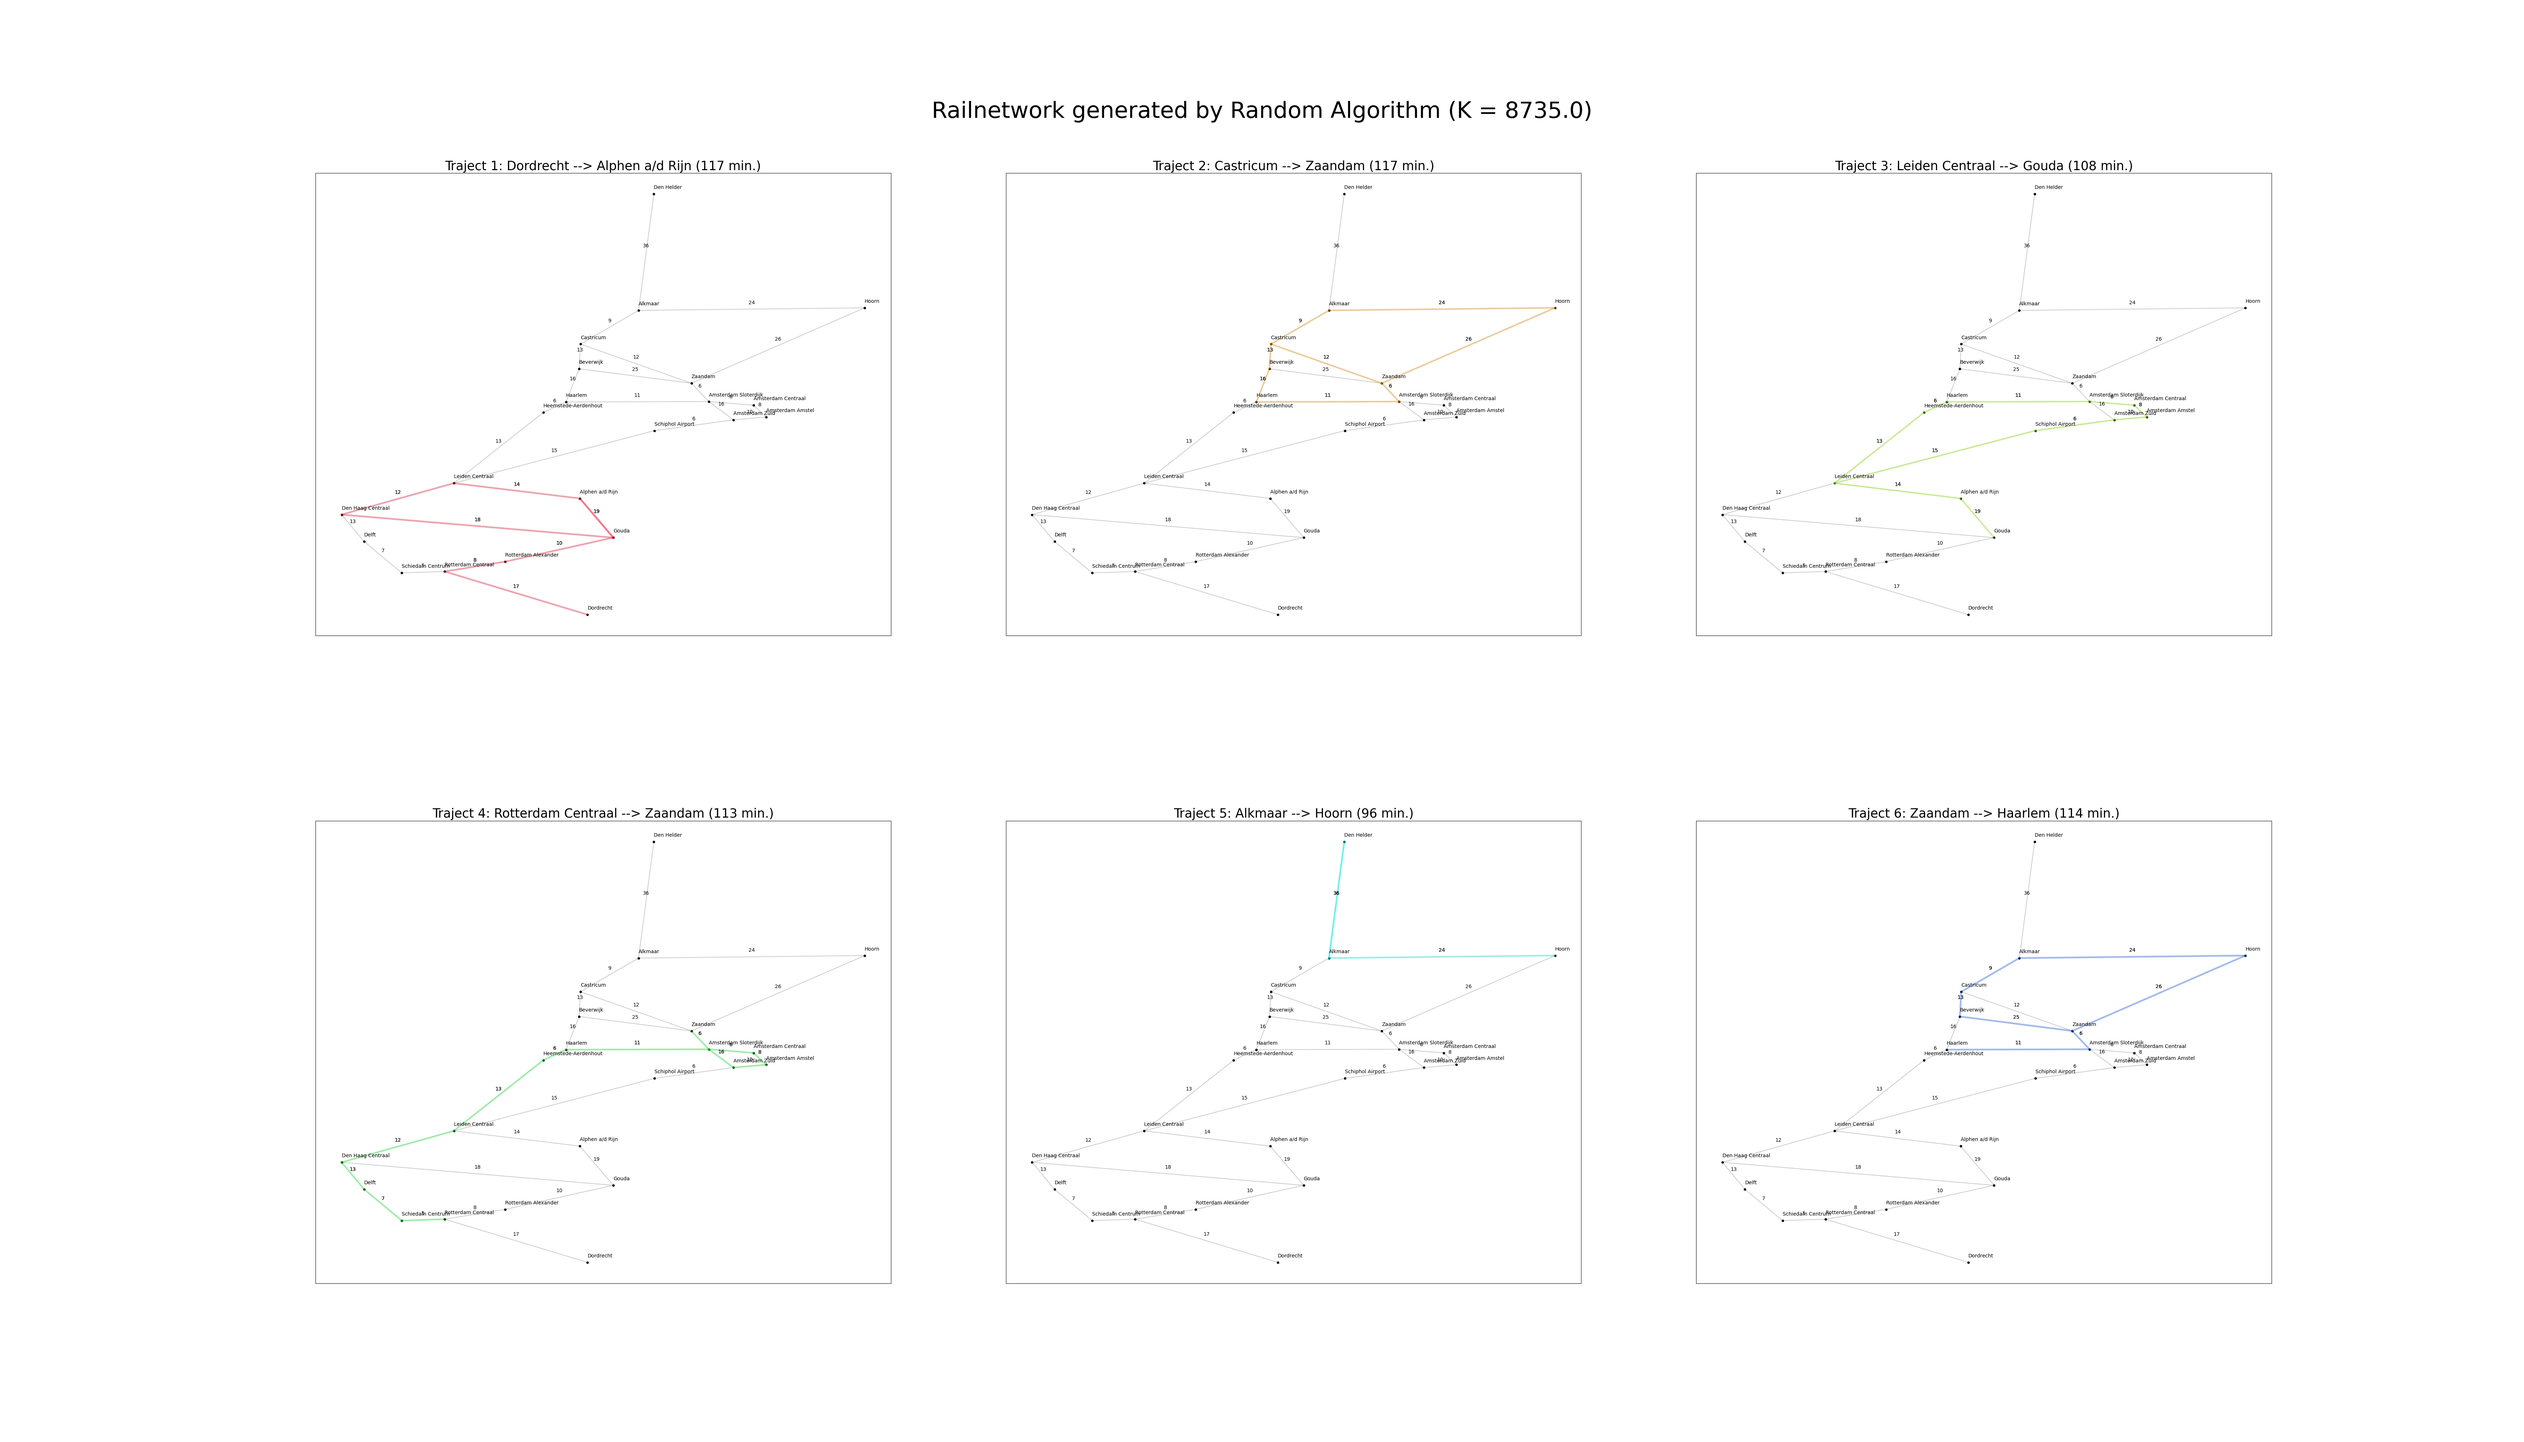
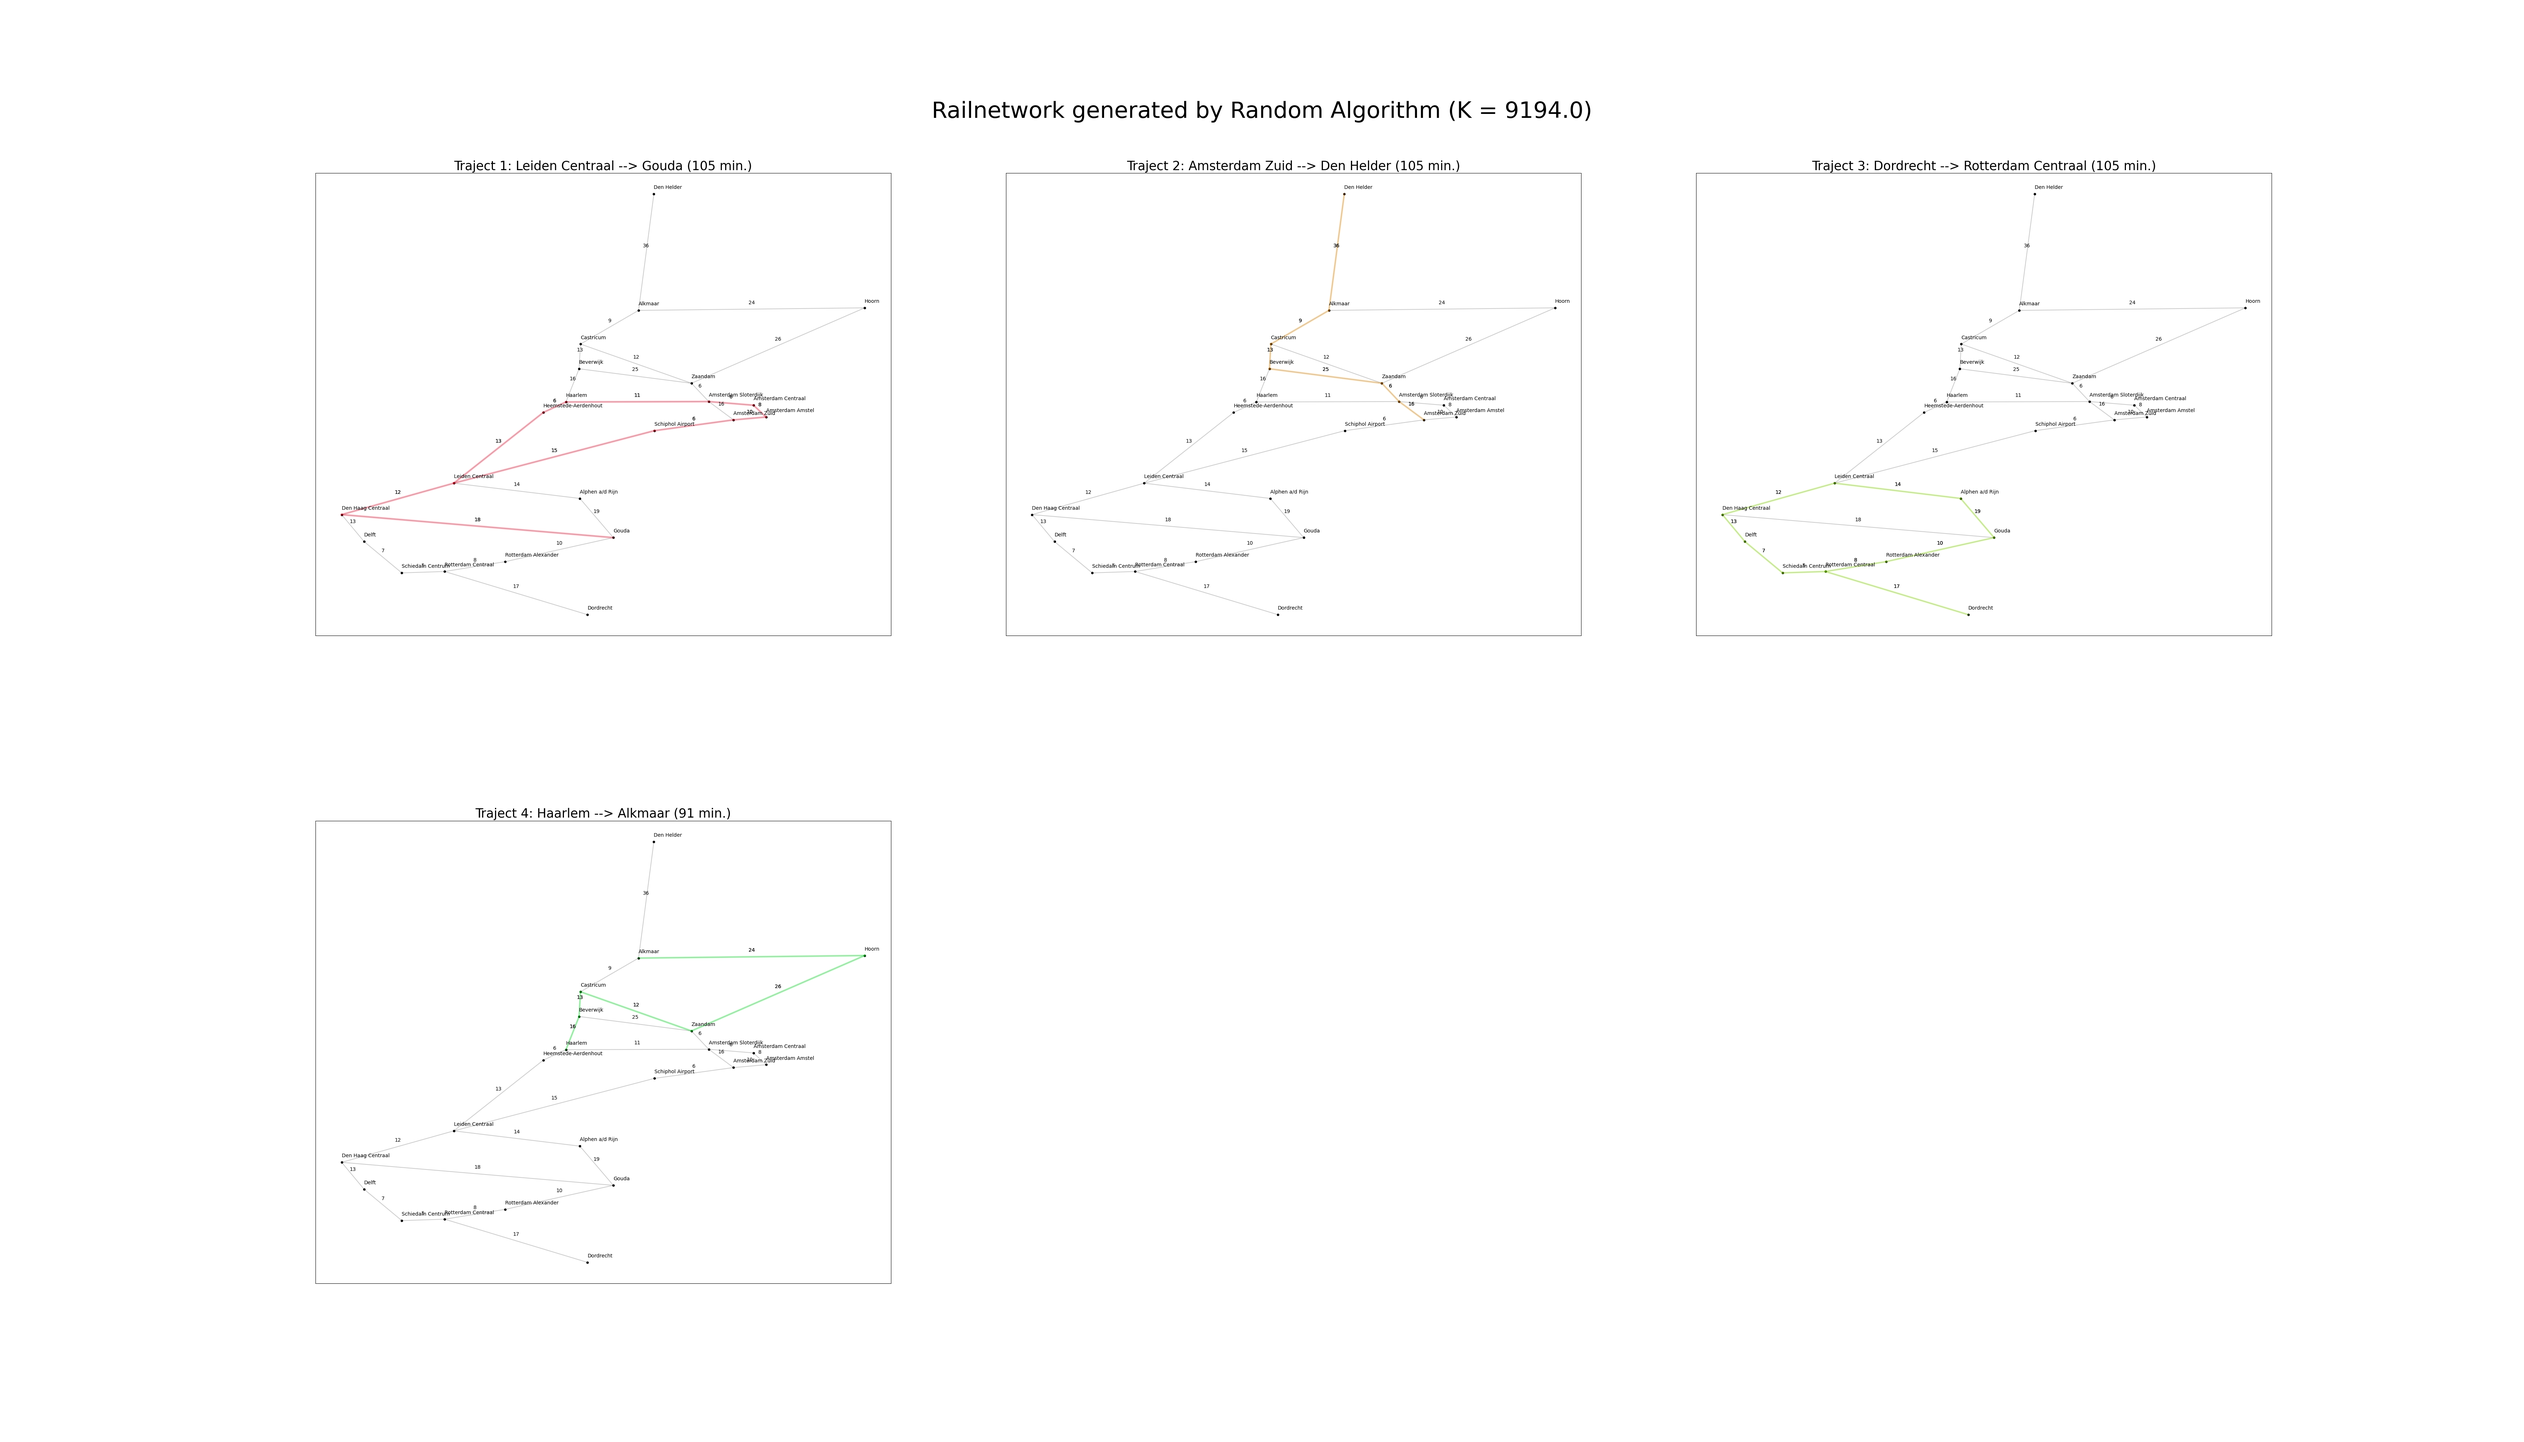
update optimal K

diff --git a/main.py b/main.py
@@ -23,27 +23,27 @@ def main():
     else: 
         sys.exit("Not a valid input")
 
-    #------------------------------ Load Graph based on region ------------------------------------
+    #----------------------------------- Load Graph based on region ------------------------------------
     railway_map = graph.Graph(map_name, max_trajects, max_duration)
 
-    #---------------------------------- Visualisation Start----------------------------------------
+    #--------------------------------------- Visualisation Start----------------------------------------
     vis.visualise_start(railway_map, map_name)
 
-    #------------------------------------ Start algorithm ----------------------------------------
+    #--------------------------------------- Implement Algorithm ----------------------------------------
     if algorithm.upper() == "R" or algorithm.upper() == "RANDOM":
         if map_name == 'HOLLAND' and question == 1:
-            random_graph = randomise.random_algorithm_one_sol(railway_map)
+            final_graph = randomise.random_algorithm_one_sol(railway_map)
         else:
-            random_graph = randomise.random_algorithm_opt_sol(railway_map)
+            final_graph, K = randomise.random_algorithm_opt_sol(railway_map)
+            print("Found optimal K of:", K)
+            for traject in final_graph.lijnvoering:
+                print("Traject", final_graph.lijnvoering.index(traject), "\n", ", ".join(traject.stations))
+
     else: 
         sys.exit("Algorithm not yet implemented")
-    
-    # calculate the quality of the lijnvoering and print the result
-    random_graph.lijnvoering_kwaliteit(set(random_graph.used_connections), random_graph.available_connections, random_graph.lijnvoering)
-    print('K = ', random_graph.K)
 
-    #---------------------------- Display visualisation results ------------------------------------
-    vis.visualise_solution(random_graph, map_name)
+    #-------------------------------------- Visualisation Result -----------------------------------------
+    vis.visualise_solution(final_graph, map_name)
 
 
 if __name__ == '__main__':

diff --git a/code/algorithms/randomise.py b/code/algorithms/randomise.py
@@ -60,8 +60,7 @@ def random_algorithm_one_sol(graph):
     """
     Algorithm that looks for combination of trajects such that all connections are used
     """
-    print('loading randomly constructed lijnvoering...')
-    print()
+    print('\nloading randomly constructed lijnvoering...\n')
 
     solution = False
     nTry = 0 
@@ -94,13 +93,13 @@ def random_algorithm_opt_sol(graph):
     """
     Algorithm that looks for combination of trajects such that quality goal-fucntion is optimized
     """
-    print('loading randomly constructed lijnvoering...')
-    print()
+    print('\nloading randomly constructed lijnvoering...\n')
 
-    solution = False
-    nTry = 0 
+    opt_K = 0
+    opt_map = graph
+    nTry = 0
 
-    while solution == False:
+    while nTry < 100000:
 
         # for each try, create a new graph 
         nTry += 1
@@ -110,18 +109,15 @@ def random_algorithm_opt_sol(graph):
         while len(new_graph.unused_connections) != 0 and len(new_graph.lijnvoering) < new_graph.max_trajects:
             random_traject(new_graph)
 
-        # if all connections used, print solution and stop loop
-        if len(new_graph.unused_connections) == 0:
-            solution = True
+        # add quality-goalfunction
+        new_graph.lijnvoering_kwaliteit(set(new_graph.used_connections), new_graph.available_connections, new_graph.lijnvoering)
+        
+        # if quality higher then optimal, replace optimal results
+        if new_graph.K > opt_K:
+            opt_K = new_graph.K
+            opt_map = new_graph
             
-            print('Found the following correct lijnvoering at try number:', nTry)
-            for i, traject in enumerate(new_graph.lijnvoering):
-                print('traject', i + 1,':', traject.stations)
-                print('duration:', traject.duration)
-                print('connections', traject.connections)
-                print()
-    
-    return new_graph
+    return opt_map, opt_K
 
 
 

diff --git a/code/visualisation/visualise.py b/code/visualisation/visualise.py
@@ -4,8 +4,7 @@ def visualise_start(railway_map, map_name):
     """
     Visualisation code that displays the railnetwork of the selected area
     """
-    print("Loading main visualisation...")
-    print()
+    print("\nLoading main visualisation...\n")
     
     # load station information
     x = []
@@ -55,8 +54,8 @@ def visualise_solution(final_graph, map_name):
     """
     Visualisation code that displays the found 'lijnvoering'
     """
-    print("Loading solution visualisation...")
-    print()
+    print("\nLoading solution visualisation...\n")
+
 
     # select colors for trajects
     colors = []
